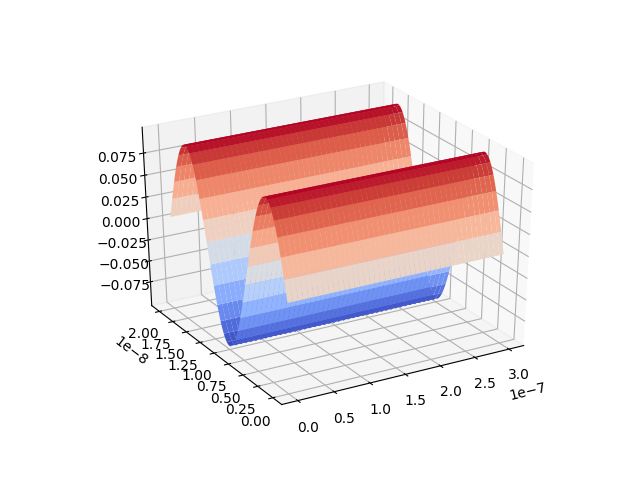
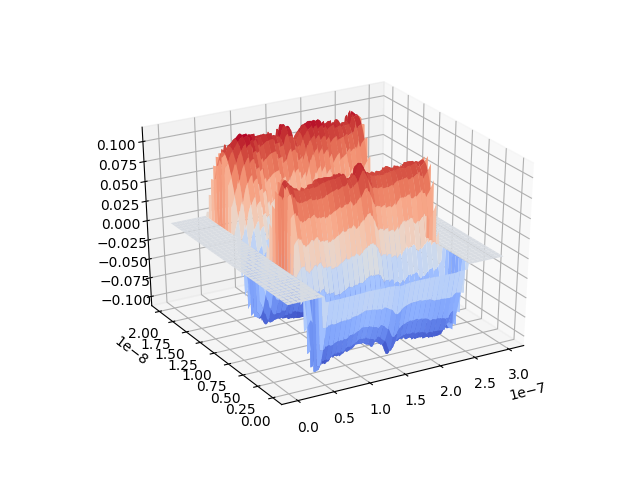
calculate schrodiger equation only under the gate length

Changed region(s): [[0.1562, 0.1875, 0.8438, 0.7812]]

diff --git a/schrodinger_poisson/schrodinger_fenics.py b/schrodinger_poisson/schrodinger_fenics.py
@@ -13,7 +13,7 @@ from dolfin import *
 
 
 # make Hamiltonian for eigen value problem
-def makeHamiltonian(ny, dy, potential):
+def makeHamiltonian(ny, dy, potential, device, cons):
     """
     return Hamiltonian for solving eigen value problem
 
@@ -22,22 +22,26 @@ def makeHamiltonian(ny, dy, potential):
         - dy : mesh particion in Interval Mesh
         - potential : 1d potential in each slice of 2d electro static potential
     """
+
+    hbar=1.05457266 * 10**-34
     hamiltonian = np.zeros((ny+1, ny+1))
+    constant_value = (hbar*hbar)/(2.0*dy*dy)
+    effective_mass = device.material["electron_effective_mass"] * cons.M
     for i in range(0, ny+1):
         for dx in range(-1, 1):
             j = i + dx
             v = 0.0
             if dx == 0:
-                v = (2/dy**2 + potential[i])
+                v = (2*constant_value/effective_mass + potential[i]*cons.Q)
             elif dx == 1:
-                v = -1/dy**2
+                v = -1*constant_value/effective_mass
             elif dx == -1:
-                v = -1/dy**2
+                v = -1*constant_value/effective_mass
+            else:
+                v = 0
+            hamiltonian[i, j] = v
 
-            if j >= 1 and j <= ny+1:
-                hamiltonian[i, j] = v
     return hamiltonian
-
 
 def schrodinger(mesh, potential, device, cons):
     """
@@ -49,8 +53,12 @@ def schrodinger(mesh, potential, device, cons):
         - device : Original Class of device structure
         - cons : Original Class of constant value
     """
-    subbands = 4
-    for subband in range(1, subbands):
+    subbands = 5
+    # reshape potential from 2d rectangle shape to 1d array
+    potential = np.array([i for i in potential.array()])
+    potential = np.reshape(potential, (device.ny+1,device.nx+1))
+
+    for subband in range(0, subbands):
         # Function space of rectangle mesh
         V = FunctionSpace(mesh, 'CG', 1)
 
@@ -69,26 +77,24 @@ def schrodinger(mesh, potential, device, cons):
         L = device.yfi
         x, dx = np.linspace(0, L, N), L / N
 
-        # reshape potential from 2d rectangle shape to 1d array
-        potential = np.reshape(potential, (device.ny+1,device.nx+1))
-
         y, dy = np.linspace(0, L, N+1), L / N
-        wavefunction = np.empty((device.ny+1, device.nx+1))
+        wavefunction = np.zeros((device.ny+1, device.nx+1))
 
         # calculate eigen vector and eigen value for each slice of rectangle mesh
         for index in range(device.nx + 1):
-            vector = potential[:, index]
-            H = makeHamiltonian(N, dx, vector)
-            w, v = np.linalg.eigh(H)
-            wavefunction[:, index] = v[:,subband]
+            if(device.gate_ini < index*device.dx and index*device.dx < device.gate_fin):
+                vector = potential[:, index]
+                H = makeHamiltonian(N, dx, vector, device, cons)
+                w, v = np.linalg.eigh(H)
+                temp = v[:, subband]
+                temp = temp[::-1]
+                wavefunction[:, index] = temp
 
         # reshape 2d wavefunction array to 1d array
         
         X = np.linspace(device.xin, device.xfi, device.nx+1)
         Y = np.linspace(device.yin, device.yfi, device.ny+1)
         X, Y = np.meshgrid(X, Y)
-        print(X.shape)
-        print(wavefunction.shape)
 
         # plot wavefunction
         fig = plt.figure()
@@ -96,6 +102,8 @@ def schrodinger(mesh, potential, device, cons):
         ax.plot_surface(X, Y, wavefunction, linewidth=0.2, antialiased=True, cmap=plt.cm.coolwarm)
         ax.view_init(30, -120)
         plt.savefig("img/wavefunction_" + str(subband) + ".png")
+
+    print("Schrodinger Equation got finished!")
 
 
 # schrodinger equation to solve eigen value in triangle quantum well by using 

diff --git a/schrodinger_poisson/poisson_bcs.py b/schrodinger_poisson/poisson_bcs.py
@@ -53,12 +53,14 @@ def poissonSolverTest(mesh, dopant, device, cons):
     nuemann = Nuemann()
 
     # Initialize mesh function for interior domains
-    domains = MeshFunction("size_t", mesh, mesh.topology().dim(), 0)
+    #domains = MeshFunction("size_t", mesh, mesh.topology().dim(), 0)
+    domains = CellFunction("size_t", mesh)
     domains.set_all(0)
     channel.mark(domains, 1)
 
     # Initialize mesh function for boundary domains
-    boundaries = MeshFunction("size_t", mesh, mesh.topology().dim()-1, 0)
+    #boundaries = MeshFunction("size_t", mesh, mesh.topology().dim()-1, 0)
+    boundaries = FacetFunction("size_t", mesh)
     boundaries.set_all(0)
     gate.mark(boundaries, 1)
     drain.mark(boundaries, 2)
@@ -79,7 +81,7 @@ def poissonSolverTest(mesh, dopant, device, cons):
 
 
     # calculate contact bias
-    applied_volatage = 0.3
+    applied_volatage = 0.5
     u_gate = bias.bias(device, "Schottky", applied_volatage)
     u_drain = bias.bias(device, "Ohmic", 0.0)
     u_source = bias.bias(device, "Ohmic", 0.0)
@@ -128,22 +130,23 @@ def poissonSolverTest(mesh, dopant, device, cons):
     # solve(F == 0, u, bc)
 
     u = interpolate(u, V)
-    potential = u.vector()
-    i = np.argsort(potential)
+    #potential = u.vector()
+    #i = np.argsort(potential)
     #potential = np.array([j for j in potential[i]])
 
-    potential = -1*potential[i]
+    #potential = -1*potential[i]
     u_array = -1 * u.vector()
 
 
     
     fig = plt.figure()
     ax = fig.gca(projection="3d")
-    ax.plot_trisurf(dof_x, dof_y, u_array, linewidth=0.2, antialiased=True, cmap=plt.cm.CMRmap)
+    ax.plot_trisurf(dof_x, dof_y, u_array, linewidth=0.2, antialiased=False, cmap=plt.cm.CMRmap)
     ax.view_init(30, -120)
+    ax.set_zlim3d(min(u_array), max(u_array))
     plt.savefig("electrostatic_potential.png")
 
-    print("finish!!!!!!!!!!!!!!!")
+    print("Poisson Equation got done!!!")
     
 
-    return potential
+    return u_array
